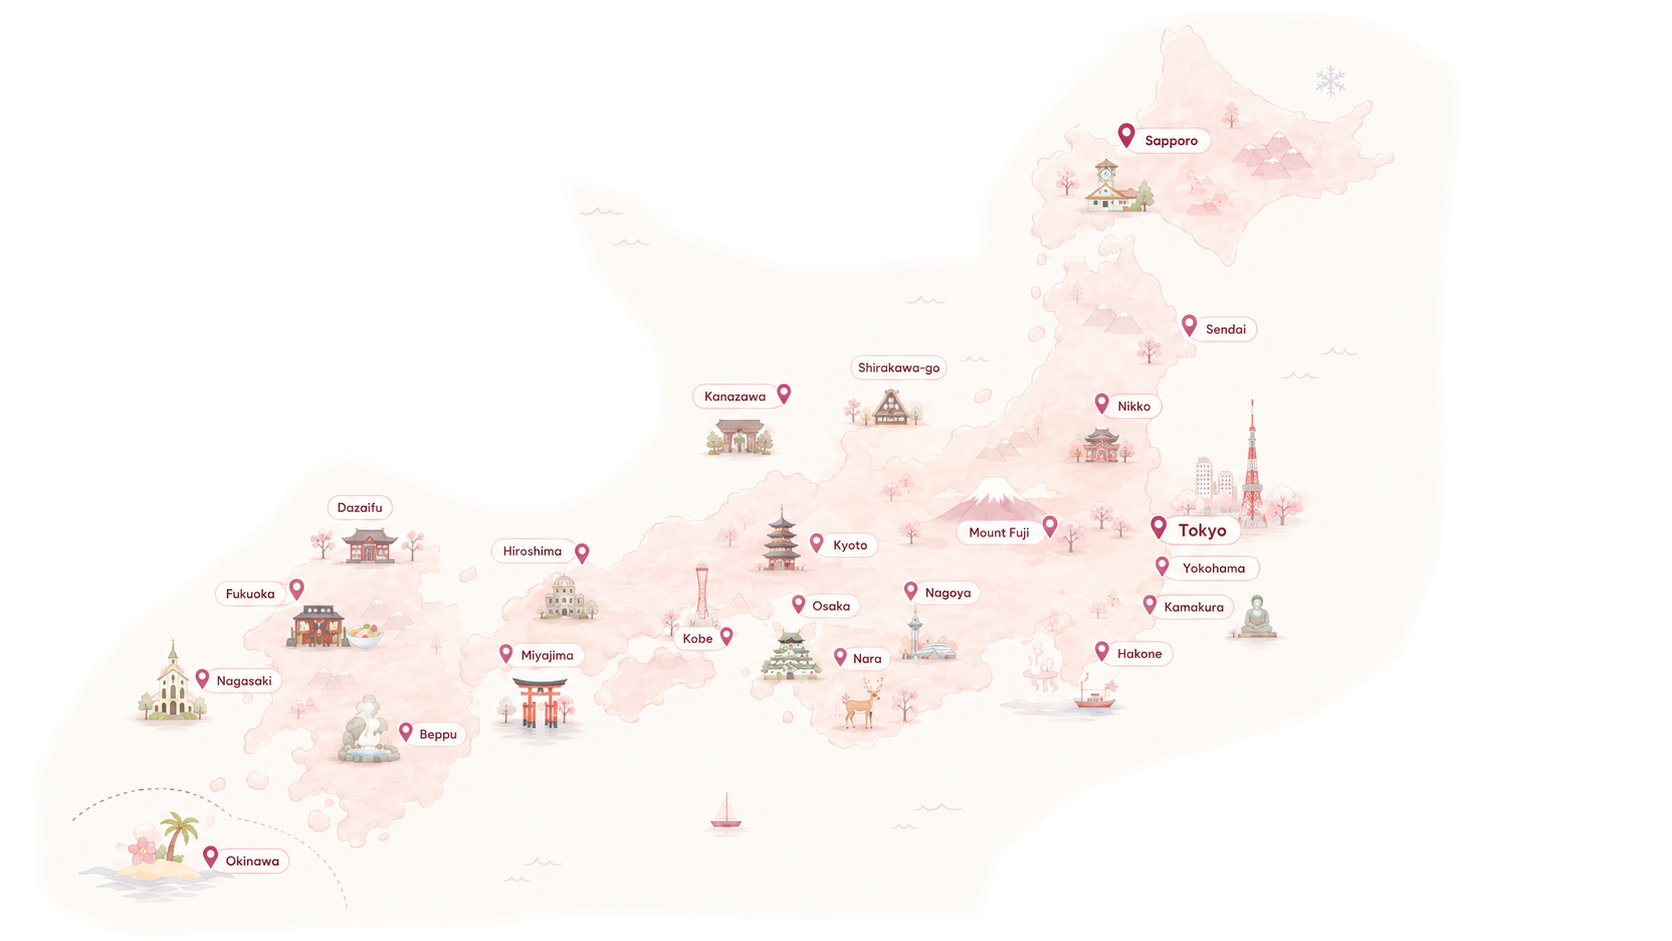
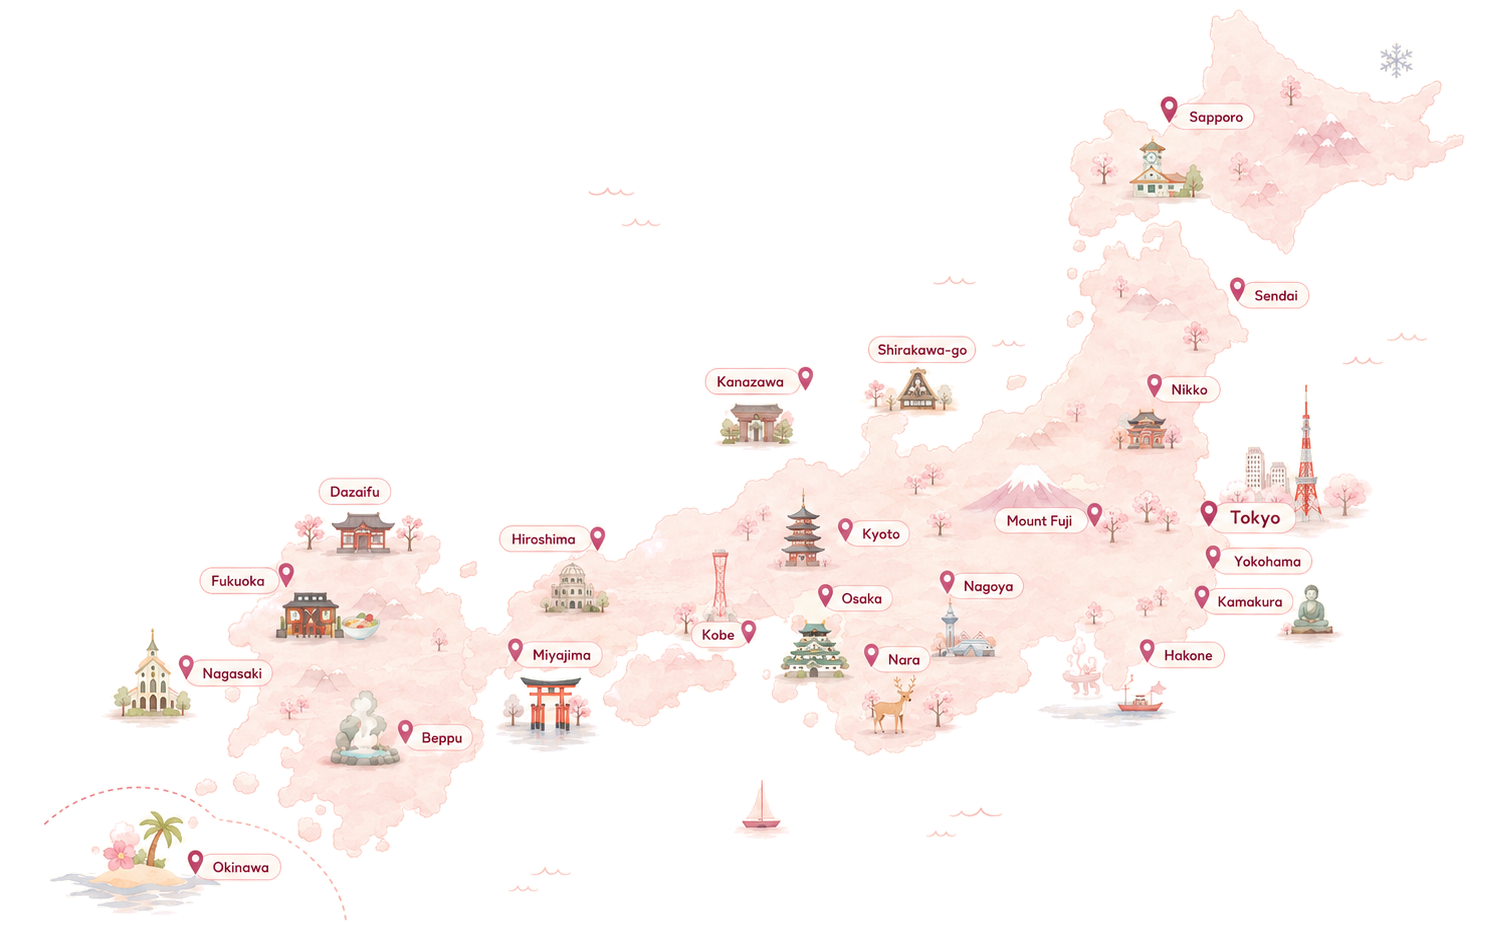
Fix Map V2 disappearing place + directions blank tab; resize hero image
Map page (V2):
- Initial viewport fetch now defers until the container has its final size
  (invalidateSize + double rAF) and UNIONs results with the SSR places on the
  first load, so a transiently narrow first viewport can no longer drop a valid
  place ("two load, then one disappears"). Later user-committed fetches still
  replace. Adds unionBySlug pure helper + tests.

Directions:
- Replace window.open(url, "_blank") with a single window.location.assign to the
  official Google Maps universal HTTPS link. Stops iOS Safari from leaving a
  blank tab while the app launches. Adds a double-tap guard.
- Legacy MapExplorer directions link no longer uses target="_blank".

Home hero:
- bg_web.png updated (1508x941); fix next/image width/height to the new aspect
  ratio and enlarge the illustration on lg/xl so it is not undersized.

diff --git a/app/map/MapExplorerV2.tsx b/app/map/MapExplorerV2.tsx
@@ -17,7 +17,7 @@ import {
 import type { InternalResultItem, StationAreaResultItem, TopicResultItem } from '@/lib/maps/unifiedSearch'
 import type { ExternalPlacePreview as ExternalPreview } from '@/lib/maps/externalPlace'
 import { findInternalDuplicate } from '@/lib/maps/duplicateDetection'
-import { internalToNearby, mergePinnedPlace } from '@/lib/maps/viewportResults'
+import { internalToNearby, mergePinnedPlace, unionBySlug } from '@/lib/maps/viewportResults'
 import { encodeExternalSeed, SEED_PARAM } from '@/lib/maps/adminSeed'
 import { polylineBounds } from '@/lib/maps/polyline'
 import { prefersReducedMotion, motionOptions, scrollBehavior } from '@/lib/maps/motion'
@@ -114,7 +114,12 @@ export default function MapExplorerV2({ defaultCenter, categories, initialPlaces
   )
 
   // ── Viewport fetch (explicit / committed only) ──
-  const fetchBounds = useCallback(async (cat = category, query = q) => {
+  // `initial` = the very first committed load right after the map mounts. The SSR
+  // `initialPlaces` were fetched from a generous fixed box; this first client query
+  // reflects the actual rendered (often narrower) viewport. On `initial` we UNION
+  // the two so a transiently narrow first viewport can never drop a valid SSR place
+  // ("two load, then one disappears"). All later (user-committed) fetches replace.
+  const fetchBounds = useCallback(async (cat = category, query = q, opts?: { initial?: boolean }) => {
     const map = mapRef.current
     if (!map) return
     const b = map.getBounds()
@@ -130,6 +135,7 @@ export default function MapExplorerV2({ defaultCenter, categories, initialPlaces
     if (process.env.NODE_ENV !== 'production') {
       // Dev-only: trace the exact viewport → query the server receives.
       console.debug('[mapv2] fetchBounds', {
+        seq: myId, initial: !!opts?.initial, startedAt: Math.round(t0),
         center: map.getCenter(), zoom: map.getZoom(),
         bounds: { north: b.getNorth(), south: b.getSouth(), east: b.getEast(), west: b.getWest() },
         params: params.toString(), category: cat, openNowOnly,
@@ -142,13 +148,19 @@ export default function MapExplorerV2({ defaultCenter, categories, initialPlaces
       const serverPlaces: NearbyPlace[] = Array.isArray(json.places) ? json.places : []
       // Keep a pinned (just-selected, out-of-view) result visible if the new
       // viewport still covers it but the server response omitted it.
-      const next = mergePinnedPlace(serverPlaces, pinnedRef.current, (lat, lng) => b.contains([lat, lng]))
+      const merged = mergePinnedPlace(serverPlaces, pinnedRef.current, (lat, lng) => b.contains([lat, lng]))
+      // First load only: never shrink below the SSR result set.
+      const next = opts?.initial ? unionBySlug(merged, initialPlaces) : merged
       setPlaces(next)
       setFetchState('')
       setMoved(false)
       lastSearched.current = { center: { lat: map.getCenter().lat, lng: map.getCenter().lng }, zoom: map.getZoom() }
       if (process.env.NODE_ENV !== 'production') {
-        console.debug('[mapv2] result', { serverCount: serverPlaces.length, afterMerge: next.length, slugs: next.map((p) => p.slug) })
+        const ms = (typeof performance !== 'undefined' ? performance.now() : 0) - t0
+        console.debug('[mapv2] result', {
+          seq: myId, ms: Math.round(ms), serverCount: serverPlaces.length,
+          afterPin: merged.length, afterUnion: next.length, slugs: next.map((p) => p.slug),
+        })
       }
       const ms = (typeof performance !== 'undefined' ? performance.now() : 0) - t0
       emitMapMetric('viewport_query', { ok: true, latency_ms: Math.round(ms), latency_bucket: latencyBucket(ms) })
@@ -159,7 +171,7 @@ export default function MapExplorerV2({ defaultCenter, categories, initialPlaces
       emitMapMetric('viewport_query', { ok: false, status: 'error' })
       emitMapMetric('map_api_unavailable', { status: 'in_bounds' })
     }
-  }, [category, q, openNowOnly])
+  }, [category, q, openNowOnly, initialPlaces])
 
   // Track OS "reduce motion" so Leaflet pan/zoom/fit can honour it (CSS can't).
   useEffect(() => {
@@ -206,7 +218,17 @@ export default function MapExplorerV2({ defaultCenter, categories, initialPlaces
       clusterRef.current = cluster
       emitMapMetric('map_loaded', { provider: 'leaflet' })
       emitMapMetric('map_provider', { provider: 'leaflet' })
-      void fetchBounds() // initial committed load aligned to the real viewport
+      // Initial committed load. Defer until the container has its FINAL size
+      // (mobile bottom sheet, dvh / Safari toolbar settle) so getBounds() reflects
+      // the real rendered viewport — querying too early gives a transiently narrow
+      // box. The `initial` union then guarantees the SSR places survive regardless.
+      const initialLoad = () => {
+        const m = mapRef.current
+        if (!m) return
+        m.invalidateSize()
+        void fetchBounds(category, q, { initial: true })
+      }
+      requestAnimationFrame(() => requestAnimationFrame(initialLoad))
     } catch {
       setMapFailed(true)
       emitMapMetric('map_load_failed', { provider: 'leaflet' })

diff --git a/lib/maps/viewportResults.test.ts b/lib/maps/viewportResults.test.ts
@@ -2,7 +2,7 @@ import { test } from 'node:test';
 import assert from 'node:assert/strict';
 import type { NearbyPlace } from '../placesNearby.ts';
 import type { InternalResultItem } from './unifiedSearch.ts';
-import { internalToNearby, mergePinnedPlace } from './viewportResults.ts';
+import { internalToNearby, mergePinnedPlace, unionBySlug } from './viewportResults.ts';
 
 function np(slug: string, lat: number, lng: number): NearbyPlace {
   return {
@@ -57,4 +57,26 @@ test('mergePinnedPlace drops the pin once the viewport no longer covers it', () 
 test('mergePinnedPlace is a no-op without a pin', () => {
   const server = [np('a', 33.5, 130.5)];
   assert.deepEqual(mergePinnedPlace(server, null, () => true), server);
+});
+
+test('unionBySlug keeps SSR places a narrower first viewport omitted (the disappearing-place bug)', () => {
+  // First client viewport only saw the centre place; SSR also had an edge place.
+  const viewport = [np('centre', 33.52, 130.53)];
+  const ssr = [np('centre', 33.52, 130.53), np('edge', 33.5, 130.62)];
+  const merged = unionBySlug(viewport, ssr);
+  assert.equal(merged.length, 2);
+  assert.deepEqual(merged.map((p) => p.slug), ['centre', 'edge']);
+});
+
+test('unionBySlug never duplicates a slug present in both lists', () => {
+  const a = [np('x', 33.5, 130.5), np('y', 33.6, 130.6)];
+  const b = [np('y', 33.6, 130.6), np('z', 33.7, 130.7)];
+  const merged = unionBySlug(a, b);
+  assert.deepEqual(merged.map((p) => p.slug), ['x', 'y', 'z']);
+});
+
+test('unionBySlug preserves primary (viewport) order first', () => {
+  const primary = [np('b', 33.5, 130.5), np('a', 33.6, 130.6)];
+  const extra = [np('c', 33.7, 130.7)];
+  assert.deepEqual(unionBySlug(primary, extra).map((p) => p.slug), ['b', 'a', 'c']);
 });

diff --git a/lib/maps/viewportResults.ts b/lib/maps/viewportResults.ts
@@ -58,3 +58,22 @@ export function mergePinnedPlace(
   if (serverPlaces.some((p) => p.slug === pin.slug)) return serverPlaces;
   return [pin, ...serverPlaces];
 }
+
+/**
+ * Union two place lists by stable slug, preserving order (primary first, then any
+ * extras not already present). Used ONLY on the initial committed load: the SSR
+ * results come from a generous fixed box, while the client's first viewport query
+ * reflects the actual rendered (often narrower) map. Unioning them guarantees a
+ * transiently narrow first viewport can never DROP a valid SSR place — without
+ * hardcoding anything. Later user-committed fetches replace normally.
+ */
+export function unionBySlug(primary: NearbyPlace[], extra: NearbyPlace[]): NearbyPlace[] {
+  const seen = new Set(primary.map((p) => p.slug));
+  const out = [...primary];
+  for (const p of extra) {
+    if (seen.has(p.slug)) continue;
+    seen.add(p.slug);
+    out.push(p);
+  }
+  return out;
+}

diff --git a/components/maps/DirectionsPanel.tsx b/components/maps/DirectionsPanel.tsx
@@ -165,7 +165,12 @@ export default function DirectionsPanel({
     }
   }, [routePreviewAvailable, originCoords, destHasCoords, destination.lat, destination.lng, mode, locale, onRoute, beacon])
 
+  const openingRef = useRef(false)
   const openInGoogleMaps = () => {
+    // Guard against a double tap firing two navigations before the first commits.
+    if (openingRef.current) return
+    openingRef.current = true
+    if (process.env.NODE_ENV !== 'production') console.debug('[directions] openInGoogleMaps invoked')
     beacon('open_in_google_maps_clicked')
     const url = buildGoogleMapsDirectionsUrl({
       destination: { placeId: destination.placeId, lat: destination.lat, lng: destination.lng, name: destination.name },
@@ -176,7 +181,15 @@ export default function DirectionsPanel({
           : 'current',
       mode,
     })
-    window.open(url, '_blank', 'noopener')
+    // ONE navigation only. The official Google Maps `https://…/maps/dir/?api=1`
+    // universal link lets iOS hand off to the installed app (page stays intact) or
+    // open Google Maps web otherwise. We must NOT pre-open a tab / use
+    // `window.open(url, '_blank')` — on iOS that leaves a blank "Không tên" tab
+    // behind while the app launches from the universal link.
+    window.location.assign(url)
+    // Re-arm shortly after in case the navigation was intercepted by the app and
+    // the page is still alive (user may want directions again).
+    setTimeout(() => { openingRef.current = false }, 1200)
   }
 
   const dur = preview ? formatDurationSeconds(preview.durationSeconds) : null

diff --git a/app/page.tsx b/app/page.tsx
@@ -152,15 +152,15 @@ export default async function Home() {
               the right side and lifted with a soft rose shadow. */}
           <div
             aria-hidden="true"
-            className="hidden lg:block lg:flex-none w-[clamp(380px,44%,560px)] xl:w-[clamp(480px,46%,680px)] pointer-events-none select-none"
+            className="hidden lg:block lg:flex-none w-[clamp(400px,46%,620px)] xl:w-[clamp(520px,50%,760px)] pointer-events-none select-none"
           >
             <Image
               src="/bg_web.png"
               alt=""
-              width={1672}
+              width={1508}
               height={941}
               priority
-              sizes="(min-width: 1280px) 46vw, (min-width: 1024px) 44vw, 0px"
+              sizes="(min-width: 1280px) 50vw, (min-width: 1024px) 46vw, 0px"
               className="w-full h-auto drop-shadow-[0_22px_48px_rgba(194,24,91,0.13)]"
             />
           </div>

diff --git a/app/map/MapExplorer.tsx b/app/map/MapExplorer.tsx
@@ -196,7 +196,7 @@ export default function MapExplorer({ defaultCenter, defaultRadius, categories, 
         </div>
         <div className="flex gap-2 mt-3">
           <Link href={`/places/${m.slug}`} className="flex-1 text-center py-1.5 text-[12px] font-semibold rounded-xl bg-teal-soft text-teal border border-teal/20 hover:bg-teal hover:text-white transition-all">{t('detail')}</Link>
-          <a href={dir} target="_blank" rel="noopener nofollow" className="flex-1 text-center py-1.5 text-[12px] font-semibold rounded-xl bg-rose-soft text-rose border border-rose/20 hover:bg-rose hover:text-white transition-all">{t('directions')}</a>
+          <a href={dir} rel="noopener nofollow" className="flex-1 text-center py-1.5 text-[12px] font-semibold rounded-xl bg-rose-soft text-rose border border-rose/20 hover:bg-rose hover:text-white transition-all">{t('directions')}</a>
         </div>
       </div>
     )